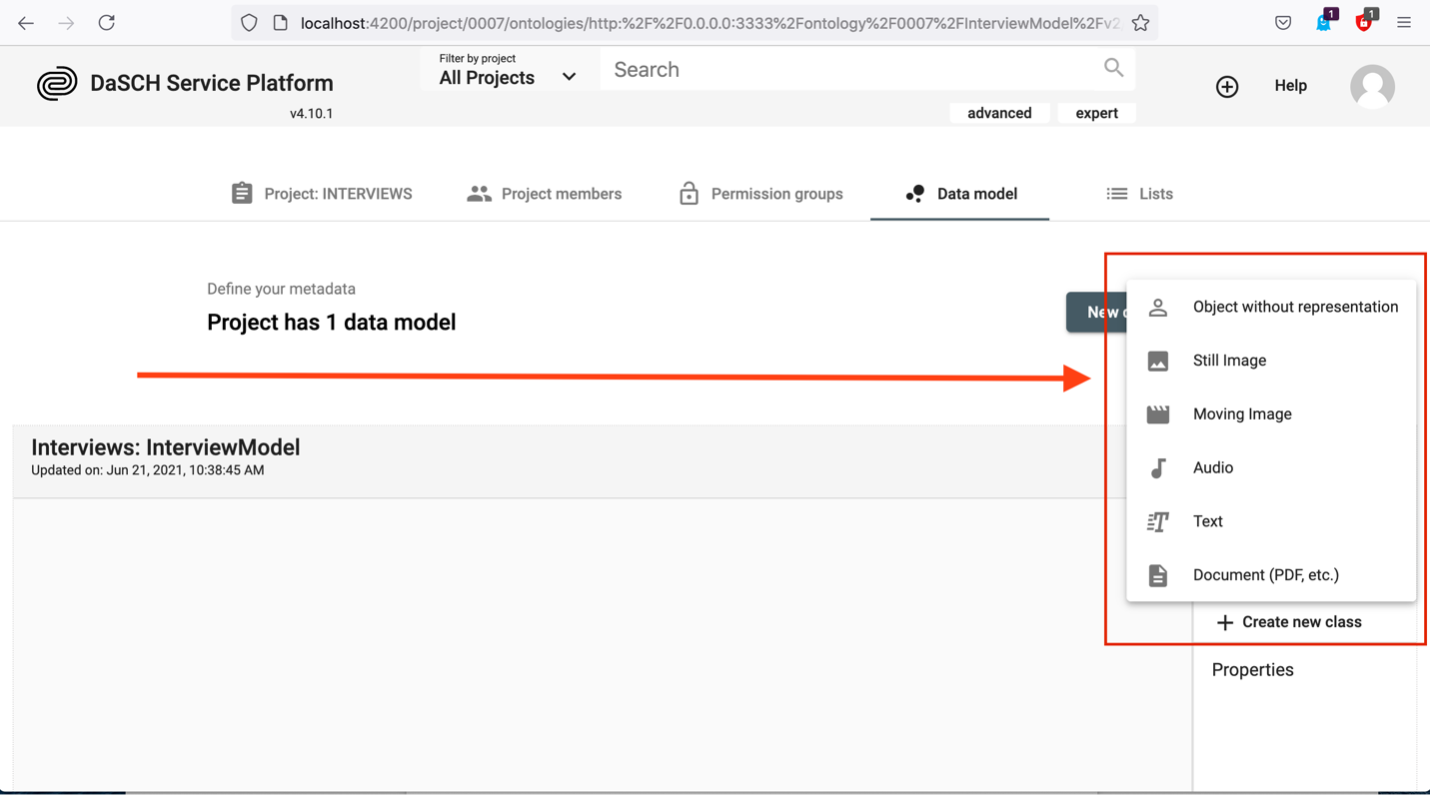
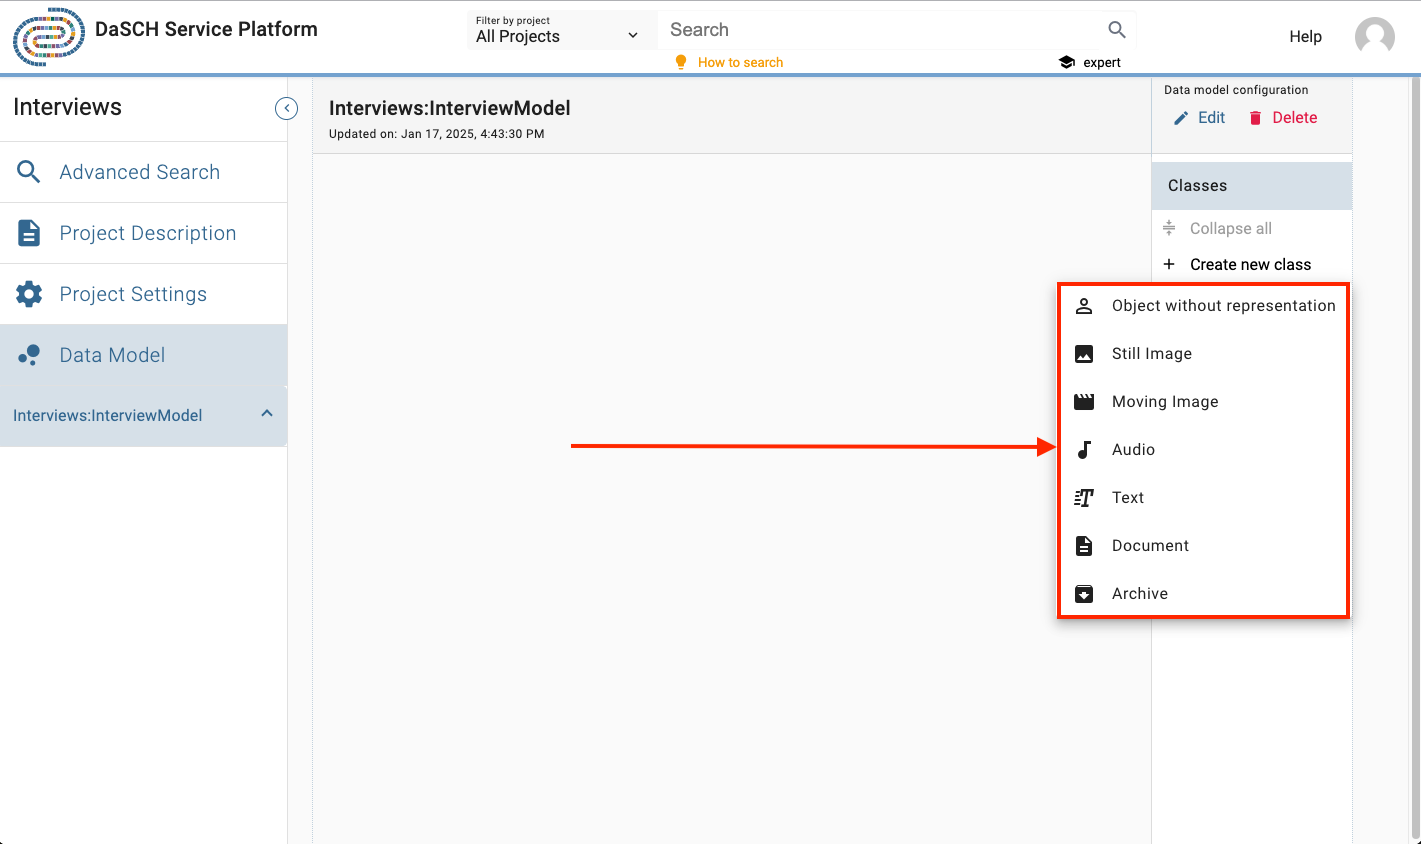
docs: add all class types to user guide (#2042)

diff --git a/docs/user-guide/project.md b/docs/user-guide/project.md
@@ -133,7 +133,17 @@ You can then create a resource class by clicking the button `+ Create new class`
 By clicking `+ Create new class`, a small window pops up with six basic types to choose from:
 ![Choose the type of your resource class.](../assets/images/Fig7.png)
 
-Which type you choose depends on the data type which you need to describe. Let's assume you have pdf-documents of books and they have a number of pages. To describe this in an ontology, you create a class as `Document` by clicking on `Document`. A dialog box pops up which looks like this:
+Which type you choose depends on the data type which you need to describe. You can choose from a selection of the following class types:
+
+- Object without representation
+- Still Image (jp2, jpg, jpeg, png, tif, tiff)
+- Moving Image (mp4)
+- Audio (mp3, wav)
+- Text (csv, json, odd, rng, txt, xml, xsd, xsl)
+- Document (doc, docx, pdf, ppt, pptx, xls, xlsx)
+- Archive (7z, gz, gzip, tar, tgz, z, zip)
+
+Let's assume you have pdf-documents of books and they have a number of pages. To describe this in an ontology, you create a class as `Document` by clicking on `Document`. A dialog box pops up which looks like this:
 ![Create a class with type *Document*.](../assets/images/Fig8.png)
 
 For the label you could write *Book*, and you should add a preferably meaningful comment in at least one of the predefined languages English (en), German (de), French (fr) or Italian (it). Then click the `Submit` button: